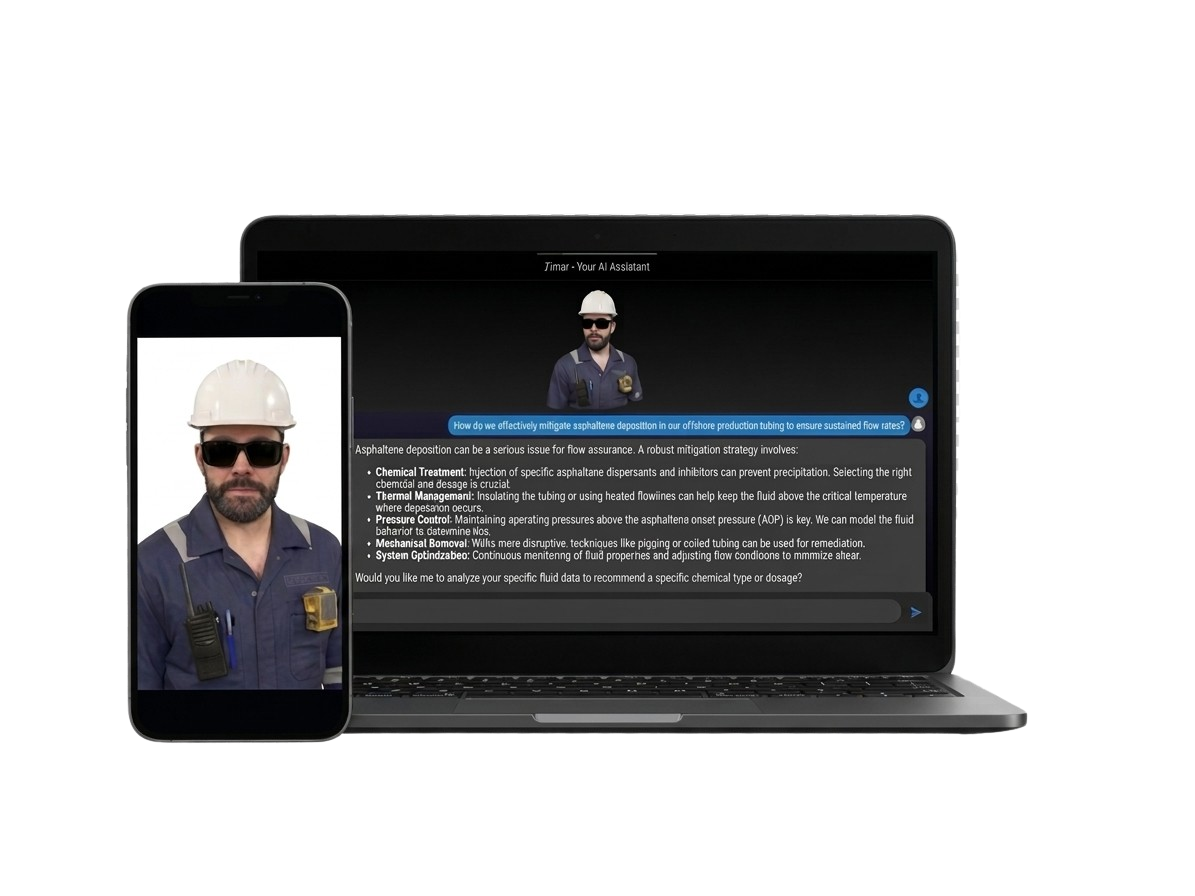
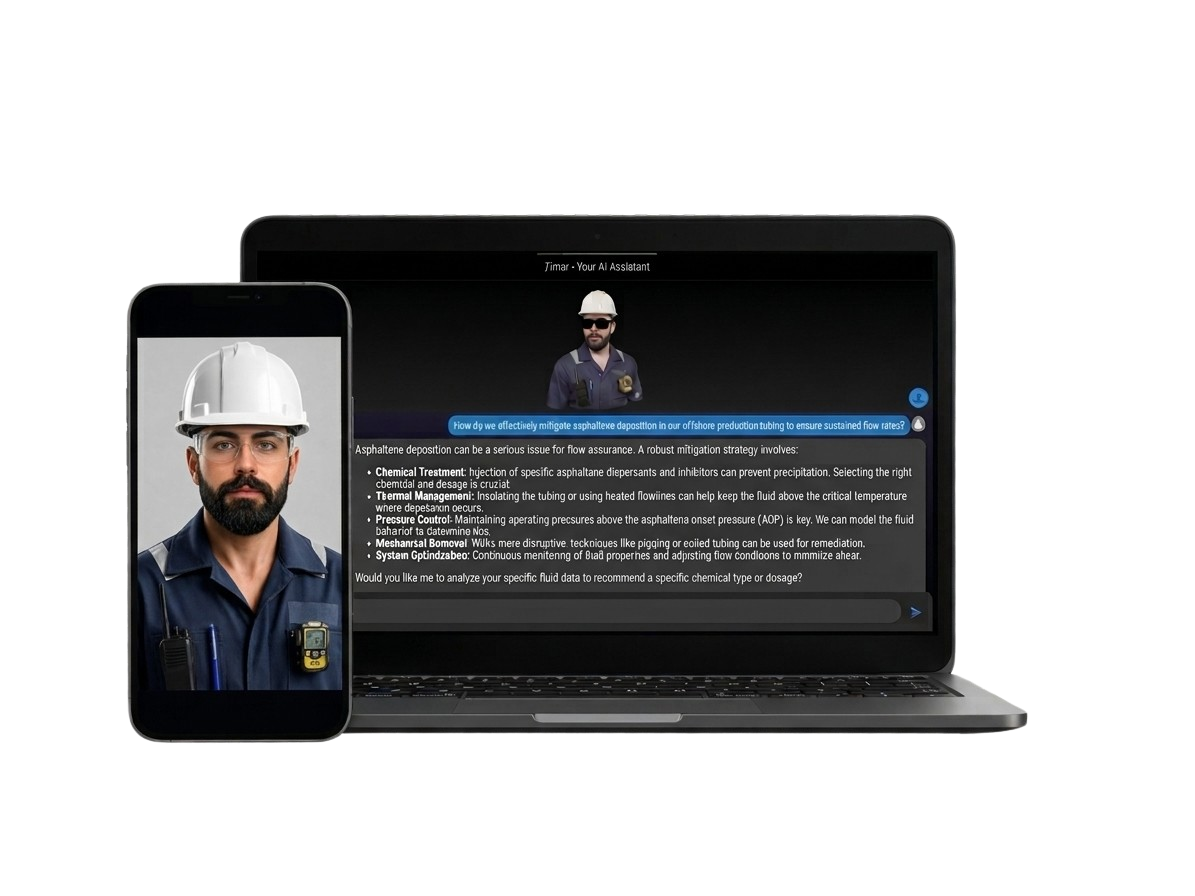
Replaced mock10 image

Changed region(s): [[0.0929, 0.375, 0.3096, 0.7812]]

diff --git a/src/info/Info.js b/src/info/Info.js
@@ -155,7 +155,7 @@ export const info = {
         },
 
            {
-            title: "Cyber Quizz",
+            title: "Cyber Quiz",
             live: "https://cyberquiz.web.app/",
             image: mock11,
             showLive: true,